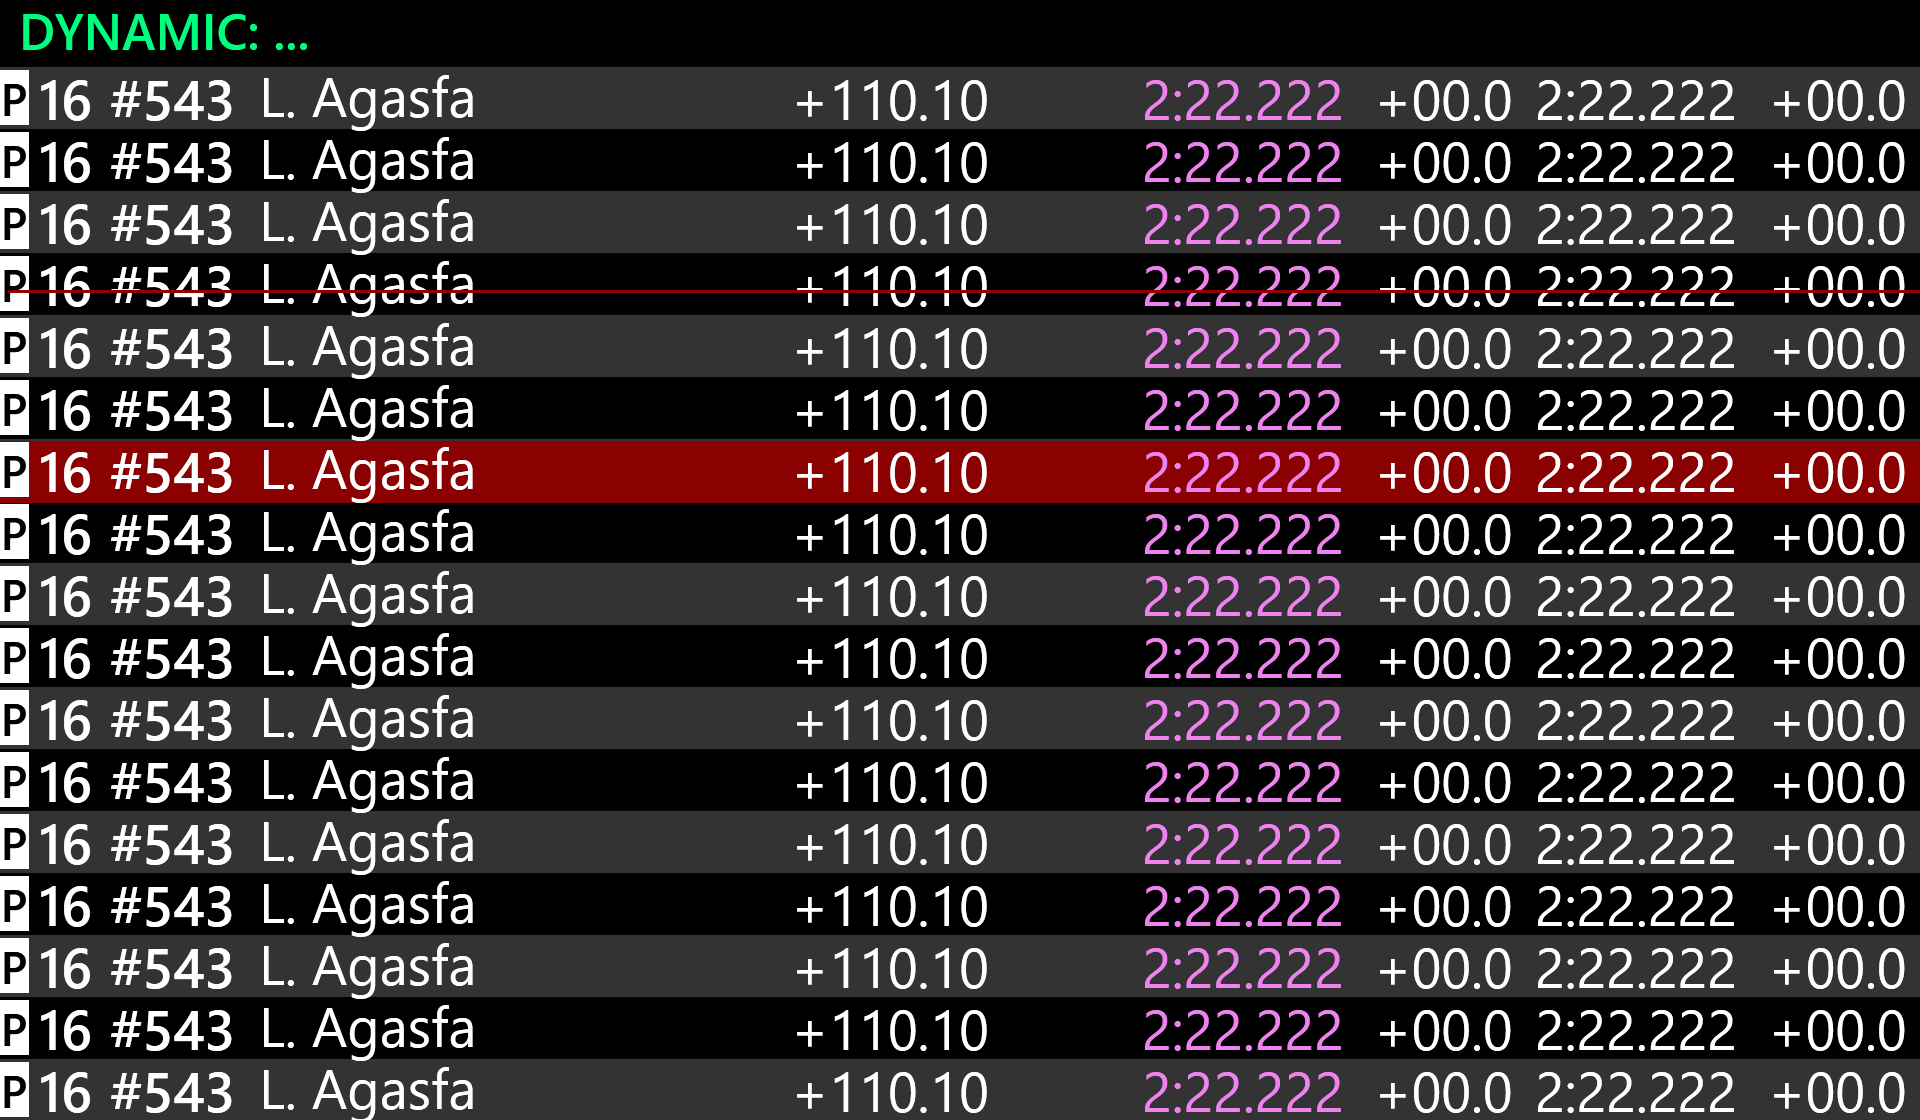
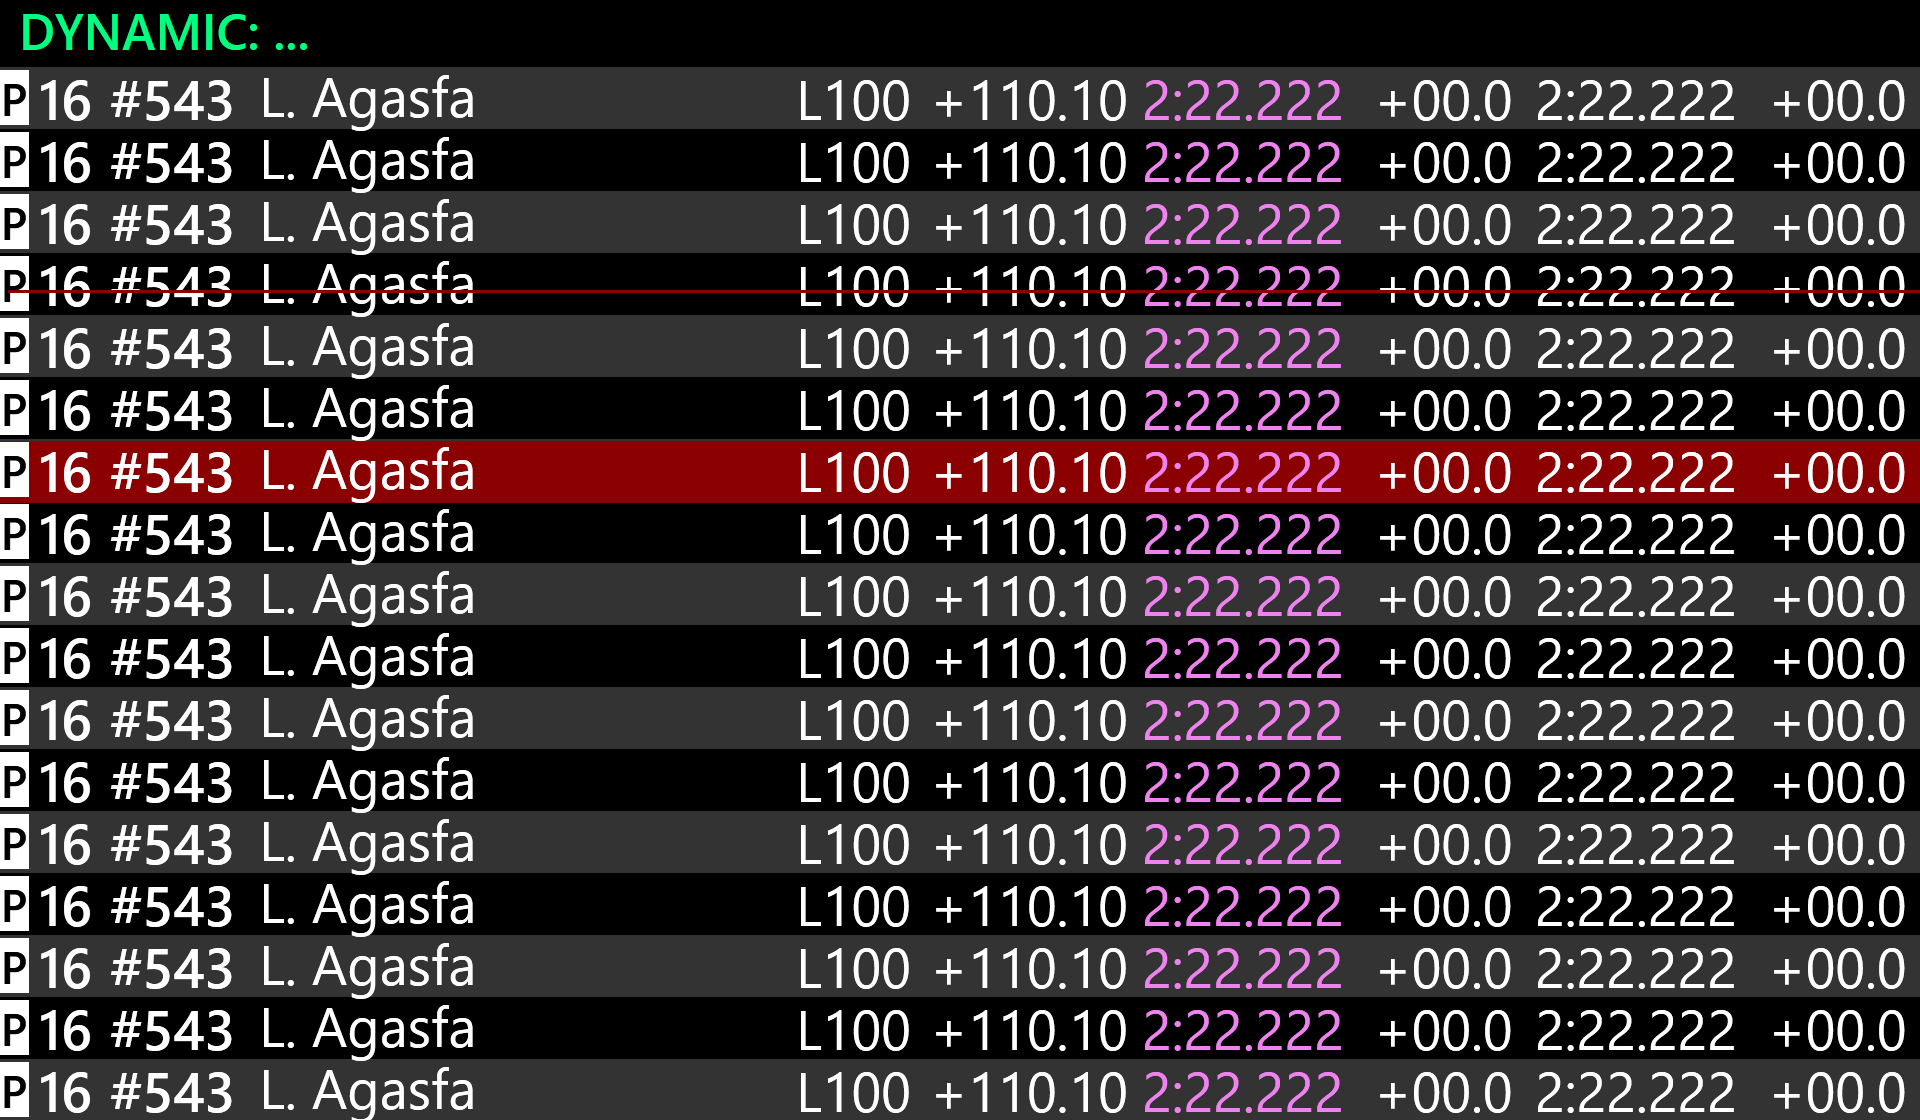
ADD: RelativeOnTrackLapDiff to show if car is ahead or behind by a lap in relative on track leaderboards.

Changed region(s): [[0.4062, 0.0625, 0.5938, 1.0]]

diff --git a/src/components/CarData.cs b/src/components/CarData.cs
@@ -101,6 +101,7 @@ namespace KLPlugins.DynLeaderboards.Car {
         public bool IsFocused { get; internal set; } = false;
         public bool IsOverallBestLapCar { get; private set; } = false;
         public bool IsClassBestLapCar { get; private set; } = false;
+        public int RelativeOnTrackLapDiff { get; private set; } = 0;
 
         public bool JumpedToPits { get; private set; } = false;
         public bool HasCrossedStartLine { get; private set; } = true;
@@ -446,6 +447,35 @@ namespace KLPlugins.DynLeaderboards.Car {
                                 setGap(CalculateGap(from, to));
                             }
                         }
+
+                        if (focusedCar.OffsetLapUpdate == OffsetLapUpdateType.None) {
+                            if (GapToFocusedTotal == null) {
+                                RelativeOnTrackLapDiff = 0;
+                            } else if (GapToFocusedTotal > 100_000) {
+                                RelativeOnTrackLapDiff = 1;
+                            } else if (GapToFocusedTotal < 50_000) {
+                                RelativeOnTrackLapDiff = 0;
+                                if (GapToFocusedOnTrack > 0) {
+                                    if (OverallPos > focusedCar.OverallPos) {
+                                        RelativeOnTrackLapDiff = -1;
+                                    } else {
+                                        RelativeOnTrackLapDiff = 0;
+                                    }
+                                } else {
+                                    if (OverallPos < focusedCar.OverallPos) {
+                                        RelativeOnTrackLapDiff = 1;
+                                    } else {
+                                        RelativeOnTrackLapDiff = 0;
+                                    }
+                                }
+                            } else {
+                                RelativeOnTrackLapDiff = -1;
+                            }
+                        
+                        
+                        }
+
+
                     }
                 } else {
                     // Use best laps to calculate gaps

diff --git a/src/settings/OutCarProp.cs b/src/settings/OutCarProp.cs
@@ -21,6 +21,7 @@ namespace KLPlugins.DynLeaderboards.Settings {
         IsFocused = 1 << 11,
         IsOverallBestLapCar = 1 << 12,
         IsClassBestLapCar = 1 << 13,
+        RelativeOnTrackLapDiff = 1 << 14
     }
 
     static class OutCarPropExtensions {
@@ -58,6 +59,8 @@ namespace KLPlugins.DynLeaderboards.Settings {
                     return "IsOverallBestLapCar";
                 case OutCarProp.IsClassBestLapCar:
                     return "IsClassBestLapCar";
+                case OutCarProp.RelativeOnTrackLapDiff:
+                    return "RelativeOnTrackLapDiff";
                 default:
                     throw new ArgumentOutOfRangeException($"Invalid enum variant {p}");
             }
@@ -95,6 +98,8 @@ namespace KLPlugins.DynLeaderboards.Settings {
                     return "Is this the car that has overall best lap?";
                 case OutCarProp.IsClassBestLapCar:
                     return "Is this the car that has class best lap?";
+                case OutCarProp.RelativeOnTrackLapDiff:
+                    return "Show if this car is ahead or behind by the lap on the relative on track. 1: this car is ahead by a lap, 0: same lap, -1: this car is behind by a lap.";
                 default:
                     throw new ArgumentOutOfRangeException($"Invalid enum variant {p}");
             }

diff --git a/src/settings/PluginSettings.cs b/src/settings/PluginSettings.cs
@@ -27,7 +27,7 @@ namespace KLPlugins.DynLeaderboards.Settings {
             PluginDataLocation = _defPluginsDataLocation;
             AccDataLocation = _defAccDataLocation;
             Log = false;
-            BroadcastDataUpdateRateMs = 200;
+            BroadcastDataUpdateRateMs = 500;
             DynLeaderboardConfigs = new List<DynLeaderboardConfig>();
             CarClassColors = CreateDefCarClassColors();
             TeamCupCategoryColors = CreateDefCupColors();
@@ -110,7 +110,8 @@ namespace KLPlugins.DynLeaderboards.Settings {
             | OutCarProp.IsFinished
             | OutCarProp.CarClassColor
             | OutCarProp.TeamCupCategoryColor
-            | OutCarProp.TeamCupCategoryTextColor;
+            | OutCarProp.TeamCupCategoryTextColor
+            | OutCarProp.RelativeOnTrackLapDiff;
         public OutPitProp OutPitProps = OutPitProp.IsInPitLane;
         public OutPosProp OutPosProps = OutPosProp.OverallPosition | OutPosProp.ClassPosition;
         public OutGapProp OutGapProps = OutGapProp.DynamicGapToFocused;

diff --git a/src/plugin/LeaderboardPlugin.cs b/src/plugin/LeaderboardPlugin.cs
@@ -375,6 +375,7 @@ namespace KLPlugins.DynLeaderboards {
                 AddProp(OutCarProp.IsFocused, () => (l.GetDynCar(i)?.IsFocused ?? false) ? 1 : 0);
                 AddProp(OutCarProp.IsOverallBestLapCar, () => (l.GetDynCar(i)?.IsOverallBestLapCar ?? false) ? 1 : 0);
                 AddProp(OutCarProp.IsClassBestLapCar, () => (l.GetDynCar(i)?.IsClassBestLapCar ?? false) ? 1 : 0);
+                AddProp(OutCarProp.RelativeOnTrackLapDiff, () => l.GetDynCar(i)?.RelativeOnTrackLapDiff ?? 0);
 
                 this.AttachDelegate($"{startName}.DBG_TotalSplinePosition", () => (l.GetDynCar(i))?.TotalSplinePosition);
                 this.AttachDelegate($"{startName}.DBG_Position", () => (l.GetDynCar(i))?.NewData?.Position);
